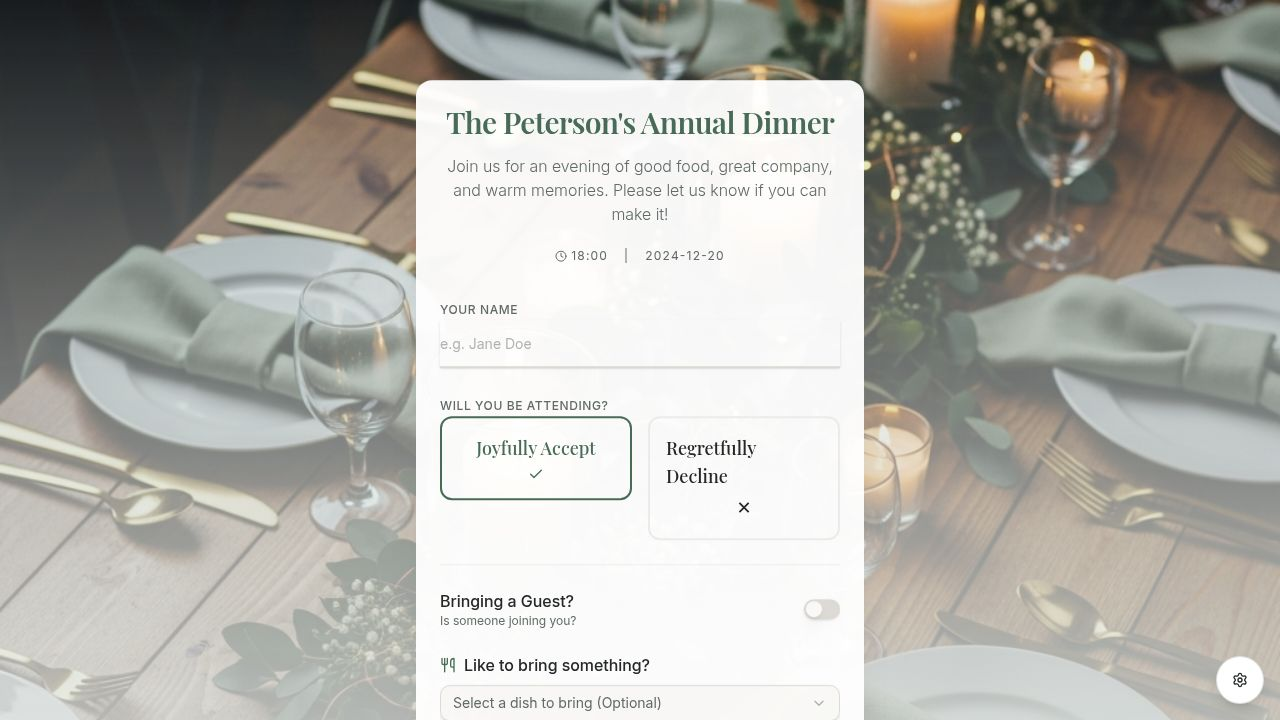
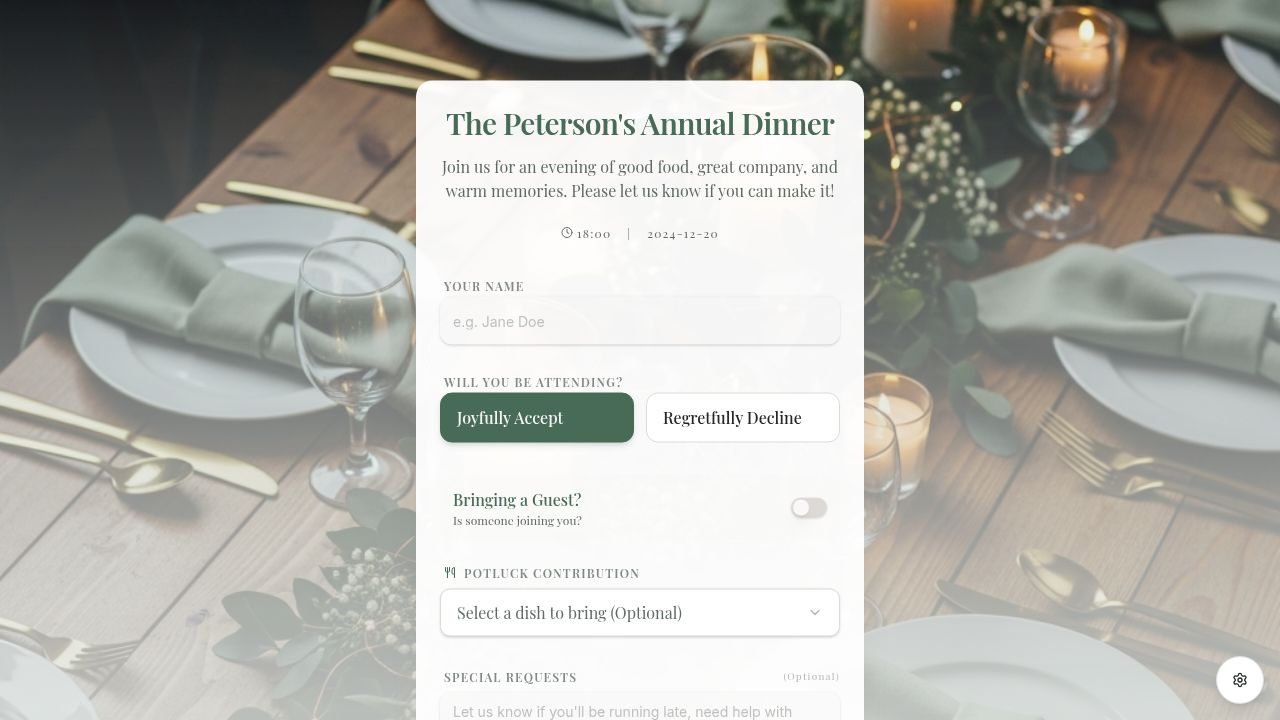
Add options to customize background image, font style, and theme color
Introduces new configuration options for background image URL, font style (serif, sans, mono), and theme color into the admin controls and event context.

Replit-Commit-Author: Agent
Replit-Commit-Session-Id: c0b82f40-e7e4-4953-ad62-f6b89bb23ff8
Replit-Commit-Checkpoint-Type: full_checkpoint
Replit-Commit-Event-Id: b21e098d-1917-42a8-a8e9-6ed63e526b31
Replit-Commit-Screenshot-Url: https://storage.googleapis.com/screenshot-production-us-central1/5b19455e-60f6-47d2-8606-66259e0f29dc/c0b82f40-e7e4-4953-ad62-f6b89bb23ff8/5JpB9LV
Replit-Helium-Checkpoint-Created: true

diff --git a/client/src/components/admin/HostControls.tsx b/client/src/components/admin/HostControls.tsx
@@ -6,10 +6,11 @@ import { Input } from "@/components/ui/input";
 import { Label } from "@/components/ui/label";
 import { Textarea } from "@/components/ui/textarea";
 import { ScrollArea } from "@/components/ui/scroll-area";
-import { Settings, Plus, Trash, User, RefreshCw, Share2, Mail, Link as LinkIcon, Lock, Unlock } from "lucide-react";
+import { Settings, Plus, Trash, User, RefreshCw, Share2, Mail, Link as LinkIcon, Lock, Unlock, Image as ImageIcon, Type, Palette, RotateCcw } from "lucide-react";
 import { Badge } from "@/components/ui/badge";
 import { Separator } from "@/components/ui/separator";
 import { useToast } from "@/hooks/use-toast";
+import { RadioGroup, RadioGroupItem } from "@/components/ui/radio-group";
 
 export function AdminControls() {
   const { 
@@ -59,8 +60,6 @@ export function AdminControls() {
   };
 
   const mailToGuests = () => {
-    // Collect all emails (simulated for now since we don't ask for email in RSVP yet, but could be added)
-    // Or just open a generic mailto
     const subject = encodeURIComponent(`You're invited: ${config.title}`);
     const body = encodeURIComponent(`Hi everyone,\n\nPlease RSVP for ${config.title} using this link:\n${window.location.href}\n\nBest,\nHost`);
     window.location.href = `mailto:?subject=${subject}&body=${body}`;
@@ -115,6 +114,81 @@ export function AdminControls() {
                   Email Invite
                 </Button>
               </div>
+            </div>
+
+            {/* Section: Theme Customization */}
+            <div className="space-y-4">
+               <h3 className="uppercase text-xs font-semibold tracking-widest text-muted-foreground border-b pb-2 flex items-center gap-2">
+                 <Palette className="w-4 h-4" /> Customization
+               </h3>
+               
+               {/* Background Image */}
+               <div className="space-y-2">
+                 <Label className="text-xs font-medium">Background Image URL</Label>
+                 <div className="flex gap-2">
+                   <Input 
+                     value={config.backgroundImageUrl || ''} 
+                     onChange={(e) => updateConfig({ backgroundImageUrl: e.target.value })}
+                     placeholder="Paste image URL here..."
+                     className="text-xs"
+                   />
+                   <Button 
+                     variant="ghost" 
+                     size="icon" 
+                     title="Revert to Original"
+                     onClick={() => updateConfig({ backgroundImageUrl: "" })}
+                     disabled={!config.backgroundImageUrl}
+                   >
+                     <RotateCcw className="w-4 h-4" />
+                   </Button>
+                 </div>
+                 <p className="text-[10px] text-muted-foreground">Clear text to revert to original background.</p>
+               </div>
+
+               {/* Font Style */}
+               <div className="space-y-2">
+                 <Label className="text-xs font-medium flex items-center gap-2"><Type className="w-3 h-3"/> Font Style</Label>
+                 <RadioGroup 
+                   value={config.fontStyle || 'serif'} 
+                   onValueChange={(val) => updateConfig({ fontStyle: val as any })}
+                   className="flex gap-2"
+                 >
+                   <div className="flex items-center space-x-2 border rounded-md p-2 flex-1 justify-center cursor-pointer hover:bg-secondary/20">
+                     <RadioGroupItem value="serif" id="font-serif" />
+                     <Label htmlFor="font-serif" className="font-serif cursor-pointer">Serif</Label>
+                   </div>
+                   <div className="flex items-center space-x-2 border rounded-md p-2 flex-1 justify-center cursor-pointer hover:bg-secondary/20">
+                     <RadioGroupItem value="sans" id="font-sans" />
+                     <Label htmlFor="font-sans" className="font-sans cursor-pointer">Sans</Label>
+                   </div>
+                   <div className="flex items-center space-x-2 border rounded-md p-2 flex-1 justify-center cursor-pointer hover:bg-secondary/20">
+                     <RadioGroupItem value="mono" id="font-mono" />
+                     <Label htmlFor="font-mono" className="font-mono cursor-pointer">Mono</Label>
+                   </div>
+                 </RadioGroup>
+               </div>
+
+               {/* Theme Color */}
+               <div className="space-y-2">
+                 <Label className="text-xs font-medium">Theme Color</Label>
+                 <div className="grid grid-cols-5 gap-2">
+                   {[
+                     { name: 'Sage', value: 'hsl(145 20% 35%)' },
+                     { name: 'Navy', value: 'hsl(220 40% 30%)' },
+                     { name: 'Wine', value: 'hsl(350 30% 30%)' },
+                     { name: 'Gold', value: 'hsl(40 40% 40%)' },
+                     { name: 'Black', value: 'hsl(0 0% 20%)' }
+                   ].map((color) => (
+                     <button
+                       key={color.name}
+                       onClick={() => updateConfig({ themeColor: color.value })}
+                       className={`w-full aspect-square rounded-full border-2 transition-all ${config.themeColor === color.value ? 'border-primary ring-2 ring-offset-2 ring-primary/30' : 'border-transparent'}`}
+                       style={{ backgroundColor: color.value }}
+                       title={color.name}
+                     />
+                   ))}
+                 </div>
+               </div>
             </div>
 
             {/* Section: Event Details */}

diff --git a/client/src/pages/Home.tsx b/client/src/pages/Home.tsx
@@ -1,41 +1,68 @@
 import { RSVPForm } from "@/components/forms/RSVPForm";
 import { AdminControls } from "@/components/admin/HostControls";
-import { EventProvider } from "@/lib/event-context";
+import { EventProvider, useEvent } from "@/lib/event-context";
 import bgImage from "@assets/generated_images/elegant_dinner_party_table_setting_with_soft_lighting.png";
+import { useEffect } from "react";
+
+function EventContent() {
+  const { config } = useEvent();
+  
+  // Apply theme color dynamically
+  useEffect(() => {
+    if (config.themeColor) {
+      document.documentElement.style.setProperty('--primary', config.themeColor);
+      document.documentElement.style.setProperty('--ring', config.themeColor);
+      // Approximate a lighter shade for backgrounds/accents if needed, or just rely on opacity
+    }
+    
+    // Apply font style
+    const root = document.getElementById('root');
+    if (root) {
+      root.classList.remove('font-serif', 'font-sans', 'font-mono');
+      if (config.fontStyle === 'serif') root.classList.add('font-serif');
+      if (config.fontStyle === 'sans') root.classList.add('font-sans');
+      if (config.fontStyle === 'mono') root.classList.add('font-mono');
+    }
+  }, [config.themeColor, config.fontStyle]);
+
+  return (
+    <div className={`min-h-screen w-full bg-background flex flex-col items-center justify-center relative overflow-hidden ${config.fontStyle === 'serif' ? 'font-serif' : config.fontStyle === 'mono' ? 'font-mono' : 'font-sans'}`}>
+      {/* Background Layer with Overlay */}
+      <div className="absolute inset-0 z-0">
+        <img 
+          src={config.backgroundImageUrl || bgImage} 
+          alt="Background" 
+          className="w-full h-full object-cover opacity-90 transition-opacity duration-500"
+        />
+        <div className="absolute inset-0 bg-gradient-to-t from-background via-background/60 to-transparent" />
+        <div className="absolute inset-0 bg-primary/10 mix-blend-multiply transition-colors duration-500" />
+      </div>
+
+      {/* Content Layer */}
+      <div className="relative z-10 w-full px-4 py-12 flex flex-col items-center">
+        <div className="w-full max-w-md mb-8 text-center animate-in fade-in zoom-in duration-1000">
+           {/* Decorative element or logo could go here */}
+        </div>
+        
+        <div className="w-full animate-in slide-in-from-bottom-8 duration-700 delay-200">
+          <RSVPForm />
+        </div>
+        
+        <div className="mt-8 text-white/60 text-xs font-light tracking-widest text-center">
+          SECURE RSVP SYSTEM © 2024
+        </div>
+      </div>
+
+      {/* Admin Layer */}
+      <AdminControls />
+    </div>
+  );
+}
 
 export default function Home() {
   return (
     <EventProvider>
-      <div className="min-h-screen w-full bg-background flex flex-col items-center justify-center relative overflow-hidden">
-        {/* Background Layer with Overlay */}
-        <div className="absolute inset-0 z-0">
-          <img 
-            src={bgImage} 
-            alt="Background" 
-            className="w-full h-full object-cover opacity-90"
-          />
-          <div className="absolute inset-0 bg-gradient-to-t from-background via-background/60 to-transparent" />
-          <div className="absolute inset-0 bg-primary/10 mix-blend-multiply" />
-        </div>
-
-        {/* Content Layer */}
-        <div className="relative z-10 w-full px-4 py-12 flex flex-col items-center">
-          <div className="w-full max-w-md mb-8 text-center animate-in fade-in zoom-in duration-1000">
-             {/* Decorative element or logo could go here */}
-          </div>
-          
-          <div className="w-full animate-in slide-in-from-bottom-8 duration-700 delay-200">
-            <RSVPForm />
-          </div>
-          
-          <div className="mt-8 text-white/60 text-xs font-light tracking-widest text-center">
-            SECURE RSVP SYSTEM © 2024
-          </div>
-        </div>
-
-        {/* Admin Layer */}
-        <AdminControls />
-      </div>
+      <EventContent />
     </EventProvider>
   );
 }

diff --git a/client/src/lib/event-context.tsx b/client/src/lib/event-context.tsx
@@ -15,6 +15,9 @@ export type EventConfig = {
   date: string;
   time: string;
   location: string;
+  backgroundImageUrl?: string;
+  themeColor?: string;
+  fontStyle?: 'serif' | 'sans' | 'mono';
 };
 
 export type RSVP = {
@@ -55,7 +58,10 @@ const INITIAL_CONFIG: EventConfig = {
   description: "Join us for an evening of good food, great company, and warm memories. Please let us know if you can make it!",
   date: "2024-12-20",
   time: "18:00",
-  location: "123 Maple Avenue"
+  location: "123 Maple Avenue",
+  backgroundImageUrl: "",
+  themeColor: "hsl(145 20% 35%)", // Sage Green default
+  fontStyle: "serif"
 };
 
 const INITIAL_ITEMS: Item[] = [
